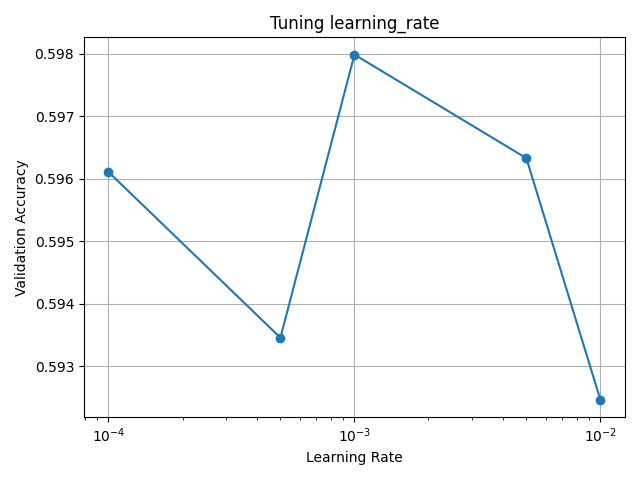
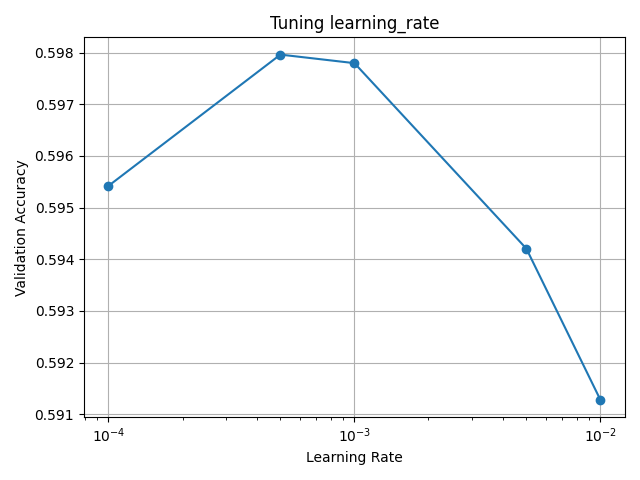
Updated manual tuning by evaluating parameters again
Changed parameters after reviewing which ones are the most suited

diff --git a/project_name/models/manual_tuning.py b/project_name/models/manual_tuning.py
@@ -7,7 +7,7 @@ from sklearn.preprocessing import StandardScaler
 from project_name.data.preprocessing import preprocess_hbsc_data
 
 # Load data
-base_dir = os.path.dirname(os.path.dirname(__file__))
+base_dir = os.path.dirname(os.path.dirname(_file_))
 data_path = os.path.join(base_dir, "data", "HBSC2018.csv")
 
 # Get the input and output
@@ -63,8 +63,8 @@ def build_model_manual(learning_rate=0.001, units=64, num_layers=2, optimizer='a
 # The hyperparameter settings with their varied values
 varied_hyperparameters = {
     "learning_rate": [1e-4, 5e-4, 1e-3, 5e-3, 1e-2],
-    "units": [16, 32, 64, 128],
-    "num_layers": [2, 3, 4, 5],
+    "units": [8, 16, 32, 64],
+    "num_layers": [2, 3, 4],
     "optimizer": ["adam", "sgd"]
 }
 
@@ -112,11 +112,8 @@ for param_name, values in varied_hyperparameters.items():
     plt.tight_layout()
 
     # Save plot to "Plots manual tuning" folder
-    plot_dir = os.path.join(os.path.dirname(__file__), "Plots manual tuning")
+    plot_dir = os.path.join(os.path.dirname(_file_), "Plots manual tuning")
     os.makedirs(plot_dir, exist_ok=True)
     plot_path = os.path.join(plot_dir, f"tuning_{param_name}.png")
     plt.savefig(plot_path)
     print(f"Saved plot: {plot_path}")
-
-    # Show plots (not necessary, as you save the plots)
-    plt.show()
